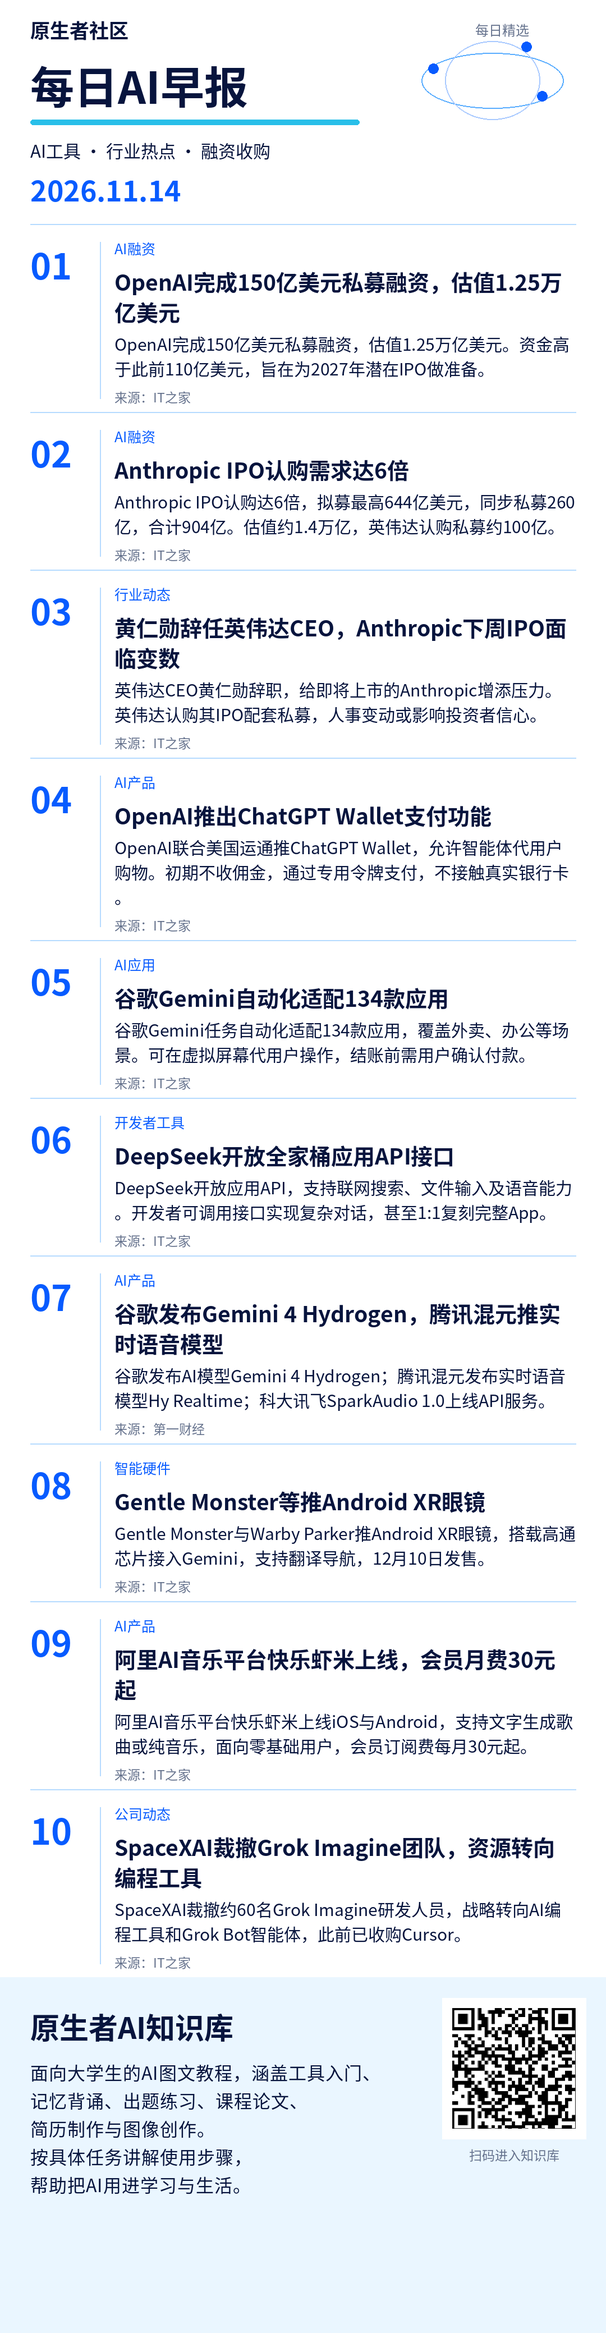
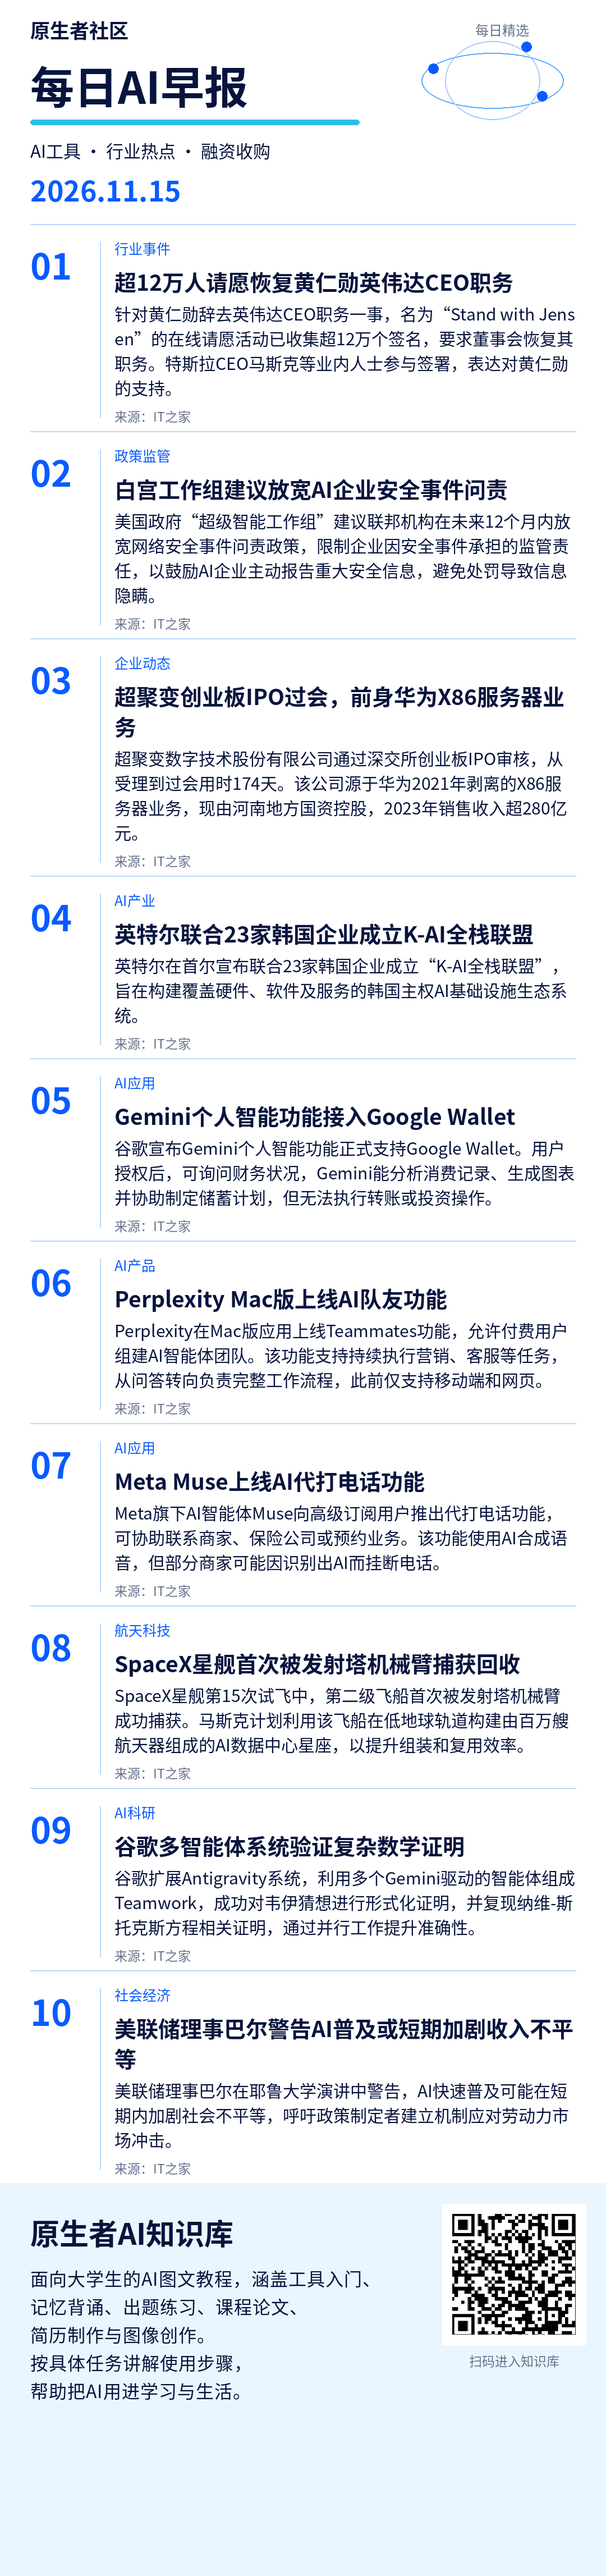
Publish mobile brief 2026-11-15

diff --git a/index.html b/index.html
@@ -2,16 +2,16 @@
 <html lang="zh-CN"><meta charset="utf-8"><meta name="viewport" content="width=device-width, initial-scale=1">
 <title>原生者社区 · 每日AI早报</title>
 <style>body{margin:0;background:#f4f6fa;color:#18263d;font-family:system-ui,sans-serif}main{max-width:680px;margin:auto;padding:24px 16px}h1{font-size:25px;margin:8px 0}p{line-height:1.7}small{color:#59677c}section{background:white;padding:20px;border-radius:16px;margin:20px 0}img{width:100%;height:auto;display:block}a,button{display:inline-block;background:#182f55;color:white;padding:12px 18px;border:0;border-radius:10px;text-decoration:none;font-size:16px}textarea{box-sizing:border-box;width:100%;height:360px;border:1px solid #d5dce7;border-radius:10px;padding:12px;font:16px/1.7 system-ui;resize:vertical}#status{min-height:28px;color:#345786}</style>
-<main><small>原生者社区</small><h1>每日AI早报</h1><p>2026-11-14</p>
+<main><small>原生者社区</small><h1>每日AI早报</h1><p>2026-11-15</p>
 <section><h2>简报图片</h2><p>长按下面的图片，选择“保存图片”，即可发到群里。</p>
 <a href="brief.png" target="_blank" rel="noopener">打开完整图片</a><p></p><img src="brief.png" alt="原生者社区每日简报"></section>
-<section><h2>每日群发内容</h2><p><a href="https://www.ithome.com/1/026/495.htm" target="_blank" rel="noopener">OpenAI完成150亿美元私募融资，估值1.25万亿美元</a></p><p><a href="https://www.ithome.com/1/026/671.htm" target="_blank" rel="noopener">Anthropic IPO认购需求达6倍</a></p><p><a href="https://wcno0em1rfbm.feishu.cn/wiki/FWYXwqRkPi3JBzk2o8QcbVztnpd" target="_blank" rel="noopener">从工作流和工具接口理解 Agent 设计</a></p><textarea id="copy" readonly>1. OpenAI完成150亿美元私募融资，估值1.25万亿美元
-https://www.ithome.com/1/026/495.htm
+<section><h2>每日群发内容</h2><p><a href="https://www.ithome.com/1/027/252.htm" target="_blank" rel="noopener">超12万人请愿恢复黄仁勋英伟达CEO职务</a></p><p><a href="https://www.ithome.com/1/027/229.htm" target="_blank" rel="noopener">白宫工作组建议放宽AI企业安全事件问责</a></p><p><a href="https://wcno0em1rfbm.feishu.cn/wiki/Jk7MwVCr5iIihJk9KiUcXoWRntf" target="_blank" rel="noopener">用 Seedance 2.5 拍《沙丘 3》，我们替你把 AI 短片的坑全都踩过了</a></p><textarea id="copy" readonly>1. 超12万人请愿恢复黄仁勋英伟达CEO职务
+https://www.ithome.com/1/027/252.htm
 
-2. Anthropic IPO认购需求达6倍
-https://www.ithome.com/1/026/671.htm
+2. 白宫工作组建议放宽AI企业安全事件问责
+https://www.ithome.com/1/027/229.htm
 
-梳理固定工作流与自主 Agent 的区别、常见组合模式，以及工具接口对可靠性的影响。
-https://wcno0em1rfbm.feishu.cn/wiki/FWYXwqRkPi3JBzk2o8QcbVztnpd</textarea><p></p>
+这篇复盘一次《沙丘》题材 AI 短片制作，记录剧本、资产库、逐镜生成与剪辑，也展示筛选、返工和成本，适合想了解完整项目的同学。
+https://wcno0em1rfbm.feishu.cn/wiki/Jk7MwVCr5iIihJk9KiUcXoWRntf</textarea><p></p>
 <button id="copyButton" type="button">复制群发内容</button><p id="status" role="status"></p></section></main>
 <script>document.getElementById('copyButton').onclick=async()=>{const t=document.getElementById('copy');const s=document.getElementById('status');try{await navigator.clipboard.writeText(t.value);s.textContent='已复制，可以粘贴到群里。';}catch(e){t.focus();t.select();t.setSelectionRange(0,t.value.length);try{if(!document.execCommand('copy'))throw Error();s.textContent='已复制，可以粘贴到群里。';}catch(e){s.textContent='已选中配文，请长按文字，选择复制。';}}};</script></html>

diff --git a/2026-11-15/6641aca4e803519d/index.html b/2026-11-15/6641aca4e803519d/index.html
@@ -1,0 +1,17 @@
+<!doctype html>
+<html lang="zh-CN"><meta charset="utf-8"><meta name="viewport" content="width=device-width, initial-scale=1">
+<title>原生者社区 · 每日AI早报</title>
+<style>body{margin:0;background:#f4f6fa;color:#18263d;font-family:system-ui,sans-serif}main{max-width:680px;margin:auto;padding:24px 16px}h1{font-size:25px;margin:8px 0}p{line-height:1.7}small{color:#59677c}section{background:white;padding:20px;border-radius:16px;margin:20px 0}img{width:100%;height:auto;display:block}a,button{display:inline-block;background:#182f55;color:white;padding:12px 18px;border:0;border-radius:10px;text-decoration:none;font-size:16px}textarea{box-sizing:border-box;width:100%;height:360px;border:1px solid #d5dce7;border-radius:10px;padding:12px;font:16px/1.7 system-ui;resize:vertical}#status{min-height:28px;color:#345786}</style>
+<main><small>原生者社区</small><h1>每日AI早报</h1><p>2026-11-15</p>
+<section><h2>简报图片</h2><p>长按下面的图片，选择“保存图片”，即可发到群里。</p>
+<a href="brief.png" target="_blank" rel="noopener">打开完整图片</a><p></p><img src="brief.png" alt="原生者社区每日简报"></section>
+<section><h2>每日群发内容</h2><p><a href="https://www.ithome.com/1/027/252.htm" target="_blank" rel="noopener">超12万人请愿恢复黄仁勋英伟达CEO职务</a></p><p><a href="https://www.ithome.com/1/027/229.htm" target="_blank" rel="noopener">白宫工作组建议放宽AI企业安全事件问责</a></p><p><a href="https://wcno0em1rfbm.feishu.cn/wiki/Jk7MwVCr5iIihJk9KiUcXoWRntf" target="_blank" rel="noopener">用 Seedance 2.5 拍《沙丘 3》，我们替你把 AI 短片的坑全都踩过了</a></p><textarea id="copy" readonly>1. 超12万人请愿恢复黄仁勋英伟达CEO职务
+https://www.ithome.com/1/027/252.htm
+
+2. 白宫工作组建议放宽AI企业安全事件问责
+https://www.ithome.com/1/027/229.htm
+
+这篇复盘一次《沙丘》题材 AI 短片制作，记录剧本、资产库、逐镜生成与剪辑，也展示筛选、返工和成本，适合想了解完整项目的同学。
+https://wcno0em1rfbm.feishu.cn/wiki/Jk7MwVCr5iIihJk9KiUcXoWRntf</textarea><p></p>
+<button id="copyButton" type="button">复制群发内容</button><p id="status" role="status"></p></section></main>
+<script>document.getElementById('copyButton').onclick=async()=>{const t=document.getElementById('copy');const s=document.getElementById('status');try{await navigator.clipboard.writeText(t.value);s.textContent='已复制，可以粘贴到群里。';}catch(e){t.focus();t.select();t.setSelectionRange(0,t.value.length);try{if(!document.execCommand('copy'))throw Error();s.textContent='已复制，可以粘贴到群里。';}catch(e){s.textContent='已选中配文，请长按文字，选择复制。';}}};</script></html>

diff --git a/2026-11-15/index.html b/2026-11-15/index.html
@@ -1,0 +1,17 @@
+<!doctype html>
+<html lang="zh-CN"><meta charset="utf-8"><meta name="viewport" content="width=device-width, initial-scale=1">
+<title>原生者社区 · 每日AI早报</title>
+<style>body{margin:0;background:#f4f6fa;color:#18263d;font-family:system-ui,sans-serif}main{max-width:680px;margin:auto;padding:24px 16px}h1{font-size:25px;margin:8px 0}p{line-height:1.7}small{color:#59677c}section{background:white;padding:20px;border-radius:16px;margin:20px 0}img{width:100%;height:auto;display:block}a,button{display:inline-block;background:#182f55;color:white;padding:12px 18px;border:0;border-radius:10px;text-decoration:none;font-size:16px}textarea{box-sizing:border-box;width:100%;height:360px;border:1px solid #d5dce7;border-radius:10px;padding:12px;font:16px/1.7 system-ui;resize:vertical}#status{min-height:28px;color:#345786}</style>
+<main><small>原生者社区</small><h1>每日AI早报</h1><p>2026-11-15</p>
+<section><h2>简报图片</h2><p>长按下面的图片，选择“保存图片”，即可发到群里。</p>
+<a href="brief.png" target="_blank" rel="noopener">打开完整图片</a><p></p><img src="brief.png" alt="原生者社区每日简报"></section>
+<section><h2>每日群发内容</h2><p><a href="https://www.ithome.com/1/027/252.htm" target="_blank" rel="noopener">超12万人请愿恢复黄仁勋英伟达CEO职务</a></p><p><a href="https://www.ithome.com/1/027/229.htm" target="_blank" rel="noopener">白宫工作组建议放宽AI企业安全事件问责</a></p><p><a href="https://wcno0em1rfbm.feishu.cn/wiki/Jk7MwVCr5iIihJk9KiUcXoWRntf" target="_blank" rel="noopener">用 Seedance 2.5 拍《沙丘 3》，我们替你把 AI 短片的坑全都踩过了</a></p><textarea id="copy" readonly>1. 超12万人请愿恢复黄仁勋英伟达CEO职务
+https://www.ithome.com/1/027/252.htm
+
+2. 白宫工作组建议放宽AI企业安全事件问责
+https://www.ithome.com/1/027/229.htm
+
+这篇复盘一次《沙丘》题材 AI 短片制作，记录剧本、资产库、逐镜生成与剪辑，也展示筛选、返工和成本，适合想了解完整项目的同学。
+https://wcno0em1rfbm.feishu.cn/wiki/Jk7MwVCr5iIihJk9KiUcXoWRntf</textarea><p></p>
+<button id="copyButton" type="button">复制群发内容</button><p id="status" role="status"></p></section></main>
+<script>document.getElementById('copyButton').onclick=async()=>{const t=document.getElementById('copy');const s=document.getElementById('status');try{await navigator.clipboard.writeText(t.value);s.textContent='已复制，可以粘贴到群里。';}catch(e){t.focus();t.select();t.setSelectionRange(0,t.value.length);try{if(!document.execCommand('copy'))throw Error();s.textContent='已复制，可以粘贴到群里。';}catch(e){s.textContent='已选中配文，请长按文字，选择复制。';}}};</script></html>
